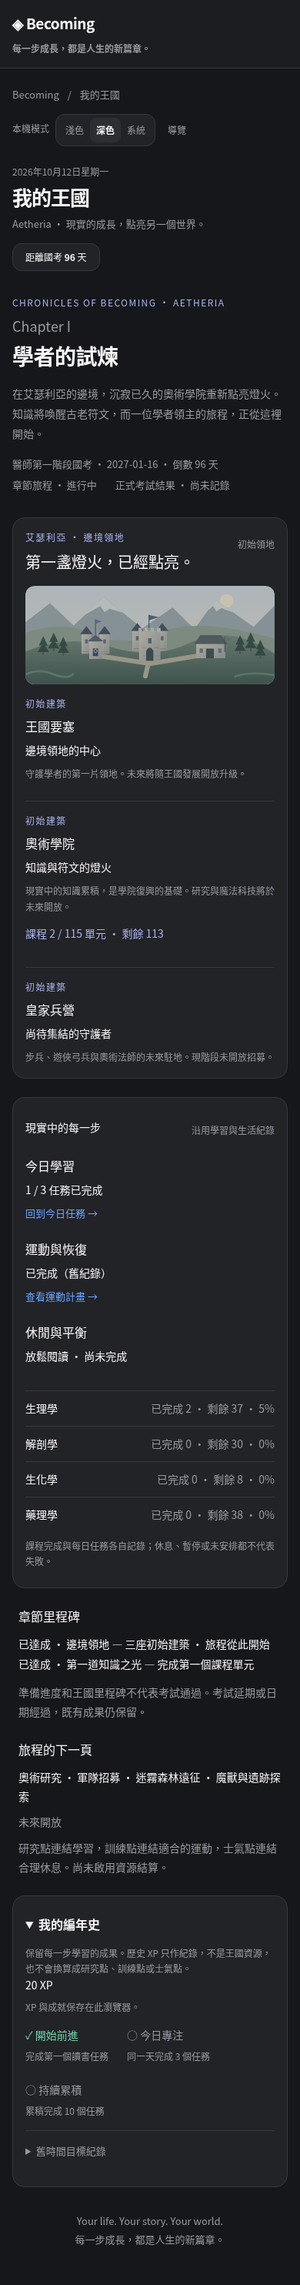
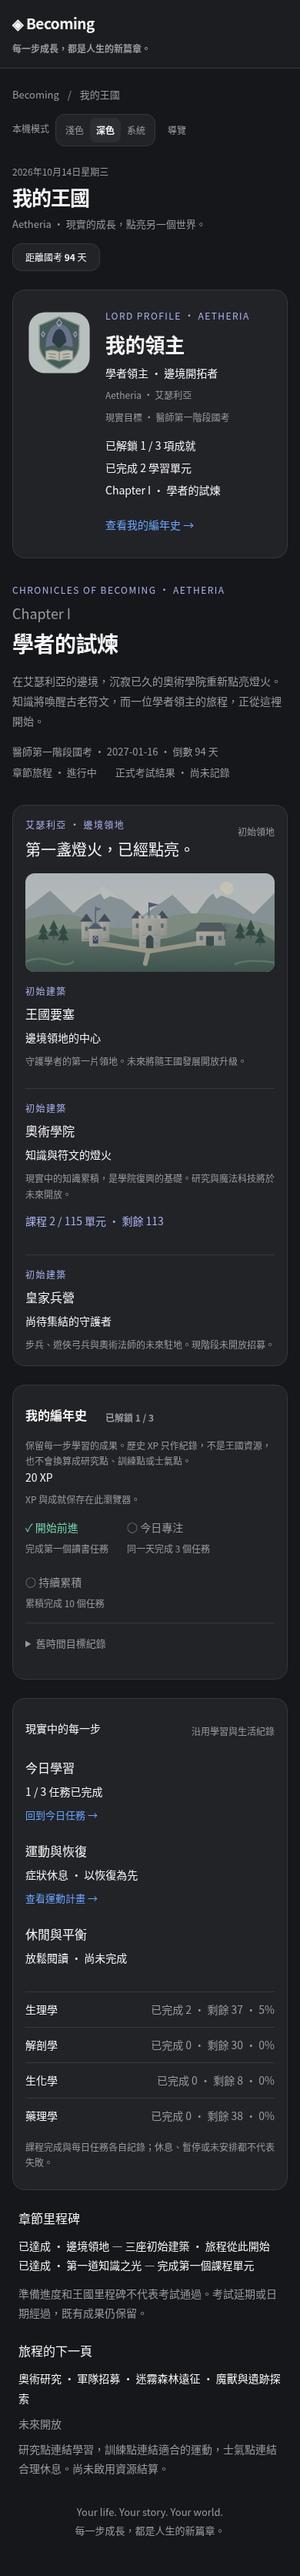
Clarify growth statistics and elevate the lord profile and chronicles

diff --git a/index.html b/index.html
@@ -152,24 +152,24 @@
     <!-- ========================================== -->
     <div id="tab-content-plan" class="space-y-6">
 
-      <!-- 📈 近 4 週衝刺完成率與作戰動量趨勢圖 (Recharts Powered) -->
+      <!-- 📈 原週計畫完成率與習慣紀錄圖 (Recharts Powered) -->
       <div id="progress-trend-card" class="bg-slate-800/90 border border-slate-700/80 rounded-2xl p-5 shadow-xl space-y-4">
         <!-- 頂部標題與控制項 -->
         <div class="flex flex-col sm:flex-row justify-between items-start sm:items-center gap-3 border-b border-slate-700/60 pb-3">
           <div>
             <div class="flex flex-wrap items-center gap-2">
               <span class="px-2.5 py-0.5 rounded-full bg-sky-500/10 text-sky-400 text-xs font-bold border border-sky-500/30 flex items-center gap-1">
-                <i data-lucide="trending-up" class="w-3.5 h-3.5"></i> 動能分析 ｜ Recharts
+                <i data-lucide="trending-up" class="w-3.5 h-3.5"></i> 原週計畫參考
               </span>
               <span id="trend-momentum-banner-badge" class="px-2 py-0.5 rounded-full bg-emerald-500/10 text-emerald-400 text-[11px] font-semibold border border-emerald-500/30 flex items-center gap-1">
-                <i data-lucide="flame" class="w-3 h-3"></i> 推進動能：真實進度即時聯動
+                <i data-lucide="flame" class="w-3 h-3"></i> 依目前勾選狀態
               </span>
             </div>
             <h2 class="text-base md:text-lg font-bold text-white mt-1.5 flex items-center gap-2">
-              近 4 週衝刺完成率與作戰動量趨勢
+              原週計畫完成率與習慣紀錄
             </h2>
             <p class="text-xs text-slate-400 mt-0.5">
-              可視化過去 4 週主科任務達成率與日常自律習慣，持續掌握向上攀升的衝刺推進動量。
+              原計畫週次的目前完成比例；不是按實際完成日期累積的歷史趨勢。
             </p>
           </div>
 
@@ -191,7 +191,7 @@
         <div class="grid grid-cols-2 lg:grid-cols-4 gap-3">
           <div class="bg-slate-900/70 border border-slate-700/60 rounded-xl p-3 space-y-1">
             <div class="text-[11px] font-medium text-slate-400 flex items-center justify-between">
-              <span>本週衝刺完成率</span>
+              <span>目前週次完成率</span>
               <span id="metric-week4-badge" class="text-[10px] text-sky-400 font-bold bg-sky-500/10 px-1.5 py-0.2 rounded border border-sky-500/20">W1 本週</span>
             </div>
             <div class="flex items-baseline gap-1.5">
@@ -203,7 +203,7 @@
 
           <div class="bg-slate-900/70 border border-slate-700/60 rounded-xl p-3 space-y-1">
             <div class="text-[11px] font-medium text-slate-400 flex items-center justify-between">
-              <span>4 週平均完成率</span>
+              <span>選取週次平均完成率</span>
               <span id="metric-avg-badge" class="text-[10px] text-sky-300 font-bold bg-sky-500/10 px-1.5 py-0.2 rounded border border-sky-500/20">4 週總合</span>
             </div>
             <div class="flex items-baseline gap-1.5">
@@ -215,19 +215,19 @@
 
           <div class="bg-slate-900/70 border border-slate-700/60 rounded-xl p-3 space-y-1">
             <div class="text-[11px] font-medium text-slate-400 flex items-center justify-between">
-              <span>衝刺動量增長</span>
+              <span>週次完成率差異</span>
               <span id="metric-momentum-badge" class="text-[10px] text-amber-400 font-bold bg-amber-500/10 px-1.5 py-0.2 rounded border border-amber-500/20">動能變化</span>
             </div>
             <div class="flex items-baseline gap-1.5">
               <span id="metric-momentum-val" class="text-xl md:text-2xl font-black font-mono text-amber-400">+0.0%</span>
-              <span class="text-[11px] text-slate-400">淨增長</span>
+              <span class="text-[11px] text-slate-400">末週減首週（百分點）</span>
             </div>
-            <div id="metric-momentum-sub" class="text-[10px] text-slate-400 truncate">跨週推進動能變化</div>
+            <div id="metric-momentum-sub" class="text-[10px] text-slate-400 truncate">不同原週次的差異，非時間增長</div>
           </div>
 
           <div class="bg-slate-900/70 border border-slate-700/60 rounded-xl p-3 space-y-1">
             <div class="text-[11px] font-medium text-slate-400 flex items-center justify-between">
-              <span>每日自律執行率</span>
+              <span>原習慣紀錄比例</span>
               <span id="metric-habit-badge" class="text-[10px] text-purple-300 font-bold bg-purple-500/10 px-1.5 py-0.2 rounded border border-purple-500/20">今日打卡</span>
             </div>
             <div class="flex items-baseline gap-1.5">
@@ -1162,7 +1162,7 @@
       {id:'subjects', title:'科目', icon:'book-open'},
       {id:'plan', title:'週計畫', icon:'calendar-check'},
       {id:'calendar', title:'行事曆', icon:'calendar-days'},
-      {id:'stats', title:'統計', icon:'chart-no-axes-combined'},
+      {id:'stats', title:'成長統計', icon:'chart-no-axes-combined'},
       {id:'kingdom', title:'我的王國', icon:'castle'},
       {id:'physiology', title:'生理學', group:'subjects'},
       {id:'anatomy', title:'解剖學', group:'subjects'},
@@ -1208,7 +1208,7 @@
         const selected=button.id==='tab-btn-'+tabName || (button.id==='calendar-overview' && tabName==='calendar'); button.classList.toggle('active',selected); button.setAttribute('aria-current',selected?'page':'false');
       }
       document.getElementById('subject-tabs').classList.toggle('hidden',group!=='subjects'); document.getElementById('calendar-tabs').classList.toggle('hidden',group!=='calendar');
-      const titles={home:['今天的任務，從這裡開始。','用自己的節奏，為國考累積每一步。'],plan:['週計畫','掌握當週目標，循序完成 16 週讀書計畫。'],calendar:['行事曆','讓課程、重要日程與休息各有位置。'],stats:['學習統計','從真實進度，看見下一步的方向。'],kingdom:['我的王國','Aetheria · 現實的成長，點亮另一個世界。'],physiology:['First Choice 生理學','7 大篇章 · 39 小節'],anatomy:['趙俊彥解剖學','15 節課 · 30 講'],biochem:['鐸鐸生化學','8 堂課 · 循序完成與複習'],pharmacology:['子翔藥理學','19 單元 · 38 講'],schedule:['作息與習慣','留出學習、生活與休息的時間。'],exercise:['運動計畫','照顧身體，也照顧讀書的節奏。'],focus:['專注計時','一次只專注眼前這件事。']};
+      const titles={home:['今天的任務，從這裡開始。','用自己的節奏，為國考累積每一步。'],plan:['週計畫','掌握當週目標，循序完成 16 週讀書計畫。'],calendar:['行事曆','讓課程、重要日程與休息各有位置。'],stats:['成長統計','從目前完成狀態與真實紀錄，看見下一步。'],kingdom:['我的王國','Aetheria · 現實的成長，點亮另一個世界。'],physiology:['First Choice 生理學','7 大篇章 · 39 小節'],anatomy:['趙俊彥解剖學','15 節課 · 30 講'],biochem:['鐸鐸生化學','8 堂課 · 循序完成與複習'],pharmacology:['子翔藥理學','19 單元 · 38 講'],schedule:['作息與習慣','留出學習、生活與休息的時間。'],exercise:['運動計畫','照顧身體，也照顧讀書的節奏。'],focus:['專注計時','一次只專注眼前這件事。']};
       const [title,description]=titles[tabName] || titles.home; document.getElementById('page-title').textContent=title; document.getElementById('page-description').textContent=description; document.getElementById('workspace-crumb').textContent=meta.group ? defaultTabs.find(t=>t.id===meta.group).title+' / '+meta.title : meta.title;
       document.getElementById('workspace-nav').classList.remove('mobile-open'); document.getElementById('mobile-menu').setAttribute('aria-expanded','false');
       window.dispatchEvent(new CustomEvent('workspace-page-change',{detail:{tab:tabName,group}}));
@@ -3010,7 +3010,7 @@
     });
 
     // ==========================================
-    // 📈 Recharts 近 4 週衝刺完成率與作戰動量趨勢圖
+    // 📈 Recharts 原週計畫完成率與習慣紀錄圖
     // ==========================================
     let trendChartMode = 'sprint'; // 'sprint' | 'rolling'
     let rechartsReactRoot = null;
@@ -3394,17 +3394,17 @@
           elWeek4Sub.innerText = `達到每週進度參考（75%）`;
           elWeek4Sub.className = 'text-[10px] text-emerald-400 truncate font-semibold';
         } else if (currentItem.completion > 0) {
-          elWeek4Sub.innerText = `穩步推進中 (${currentItem.completion}%) ⚡`;
+          elWeek4Sub.innerText = `目前週次課程勾選 (${currentItem.completion}%)`;
           elWeek4Sub.className = 'text-[10px] text-sky-400 truncate';
         } else {
-          elWeek4Sub.innerText = `本週任務進行中，依各科勾選自動計算`;
+          elWeek4Sub.innerText = `原週次課程／週勾選紀錄，非本週完成任務數`;
           elWeek4Sub.className = 'text-[10px] text-slate-400 truncate';
         }
       }
 
       if (elAvgVal) elAvgVal.innerText = avgRate + '%';
       if (elAvgBadge) {
-        elAvgBadge.innerText = Number(avgRate) >= 75 ? '達標優良' : (Number(avgRate) > 0 ? '穩步推進' : '待啟動');
+        elAvgBadge.innerText = '原週次平均';
         elAvgBadge.className = Number(avgRate) >= 75 
           ? 'text-[10px] text-emerald-400 font-bold bg-emerald-500/10 px-1.5 py-0.2 rounded border border-emerald-500/20'
           : 'text-[10px] text-sky-300 font-bold bg-sky-500/10 px-1.5 py-0.2 rounded border border-sky-500/20';
@@ -3412,7 +3412,7 @@
 
       if (elMomentumVal) elMomentumVal.innerText = (Number(momentumDelta) >= 0 ? `+${momentumDelta}%` : `${momentumDelta}%`);
       if (elMomentumBadge) {
-        elMomentumBadge.innerText = Number(momentumDelta) > 0 ? '🔥 增長中' : (Number(momentumDelta) === 0 ? '穩定維持' : '蓄勢衝刺');
+        elMomentumBadge.innerText = Number(momentumDelta) > 0 ? '末週較高' : (Number(momentumDelta) === 0 ? '週次相同' : '首週較高');
       }
 
       // Calculate today's real habit percentage
@@ -3423,11 +3423,12 @@
 
       if (elHabitVal) elHabitVal.innerText = displayHabitVal.toFixed(1) + '%';
       if (elHabitBadge) {
-        elHabitBadge.innerText = displayHabitVal >= 80 ? '自律巔峰' : (displayHabitVal > 0 ? '持續打卡' : '今日待打卡');
+        elHabitBadge.innerText = todayHabitsCount > 0 ? '今日紀錄' : '原週次紀錄';
       }
 
+      if(elHabitSub)elHabitSub.textContent=todayHabitsCount>0?'今日原習慣打卡比例':'目前原週次的習慣紀錄比例，非今日狀態';
       if (elBannerBadge) {
-        elBannerBadge.innerHTML = `<i data-lucide="flame" class="w-3 h-3"></i> 推進動能：${Number(momentumDelta) > 0 ? '正向突破中 (+' + momentumDelta + '%)' : (Number(avgRate) >= 75 ? '穩定達標高水準' : '真實進度即時聯動')}`;
+        elBannerBadge.textContent = '依目前勾選狀態';
         window.lucide?.createIcons();
       }
 

diff --git a/tests/browser/kingdom.spec.js b/tests/browser/kingdom.spec.js
@@ -17,12 +17,12 @@ test('kingdom reads cloud updates and offline legacy records without writing new
  await page.route('**/owner-config.js',r=>r.fulfill({contentType:'application/javascript',body:"export const OWNER_UID='test-owner';"}));await page.addInitScript(()=>{
  Object.defineProperty(window,'workspaceLocalOnly',{get:()=>false,set:()=>{}});const records={physiology:{fc_p_1_a:true},habits:{'2026-10-12':{'daily-sport':false,questOS_v1:{exercise:{type:'walk',stage:1,status:'symptom_rest',actions:{},minutes:5,menuVersion:3},leisure:{title:'放鬆閱讀',status:'pending',minutes:20}}}},questOS:{v1:{adaptiveStudy:{settings:{version:1,examDate:'2027-02-01',weekMinutes:Array(7).fill(360),dateMinutes:{},bufferPercent:20,fixedOverrides:{}}}}},gamification:{v3:{planner:{tasks:{a:{title:'讀書',date:'2026-10-12',minutes:null,complete:false,deleted:false,links:[]}}}}}},listeners=[],writes=[];let online=true;const get=path=>path.split('/').reduce((v,k)=>v?.[k],records)??null;const snap=path=>({val:()=>path==='.info/connected'?online:structuredClone(get(path))});const notify=()=>listeners.forEach(l=>{if(online||l.path==='.info/connected')l.fn(snap(l.path));});
  const db={ref:(path='')=>({on(e,fn){listeners.push({path,fn});setTimeout(()=>fn(snap(path)),0);},async once(){return snap(path);},async transaction(fn){writes.push(path);const value=fn(structuredClone(get(path)));return {committed:value!==undefined,snapshot:snap(path)};},async update(){writes.push(path);}})};
- window.firebase={apps:[],initializeApp(){this.apps.push({});},auth:()=>({onAuthStateChanged:cb=>setTimeout(()=>cb({uid:'test-owner'}),0)}),database:()=>db};window.kingdomMock={records,writes,remote(){records.physiology.fc_p_1_a=false;records.gamification.v3.planner.tasks.a.complete=true;notify();},offline(){online=false;notify();}};
- });await page.goto('/');await go(page,'kingdom');await expect(page.locator('#kingdom-subjects [data-subject=physiology]')).toContainText('已完成 1');await expect(page.locator('#kingdom-exam')).toContainText('2027-02-01');await expect(page.locator('#kingdom-exercise')).toContainText('症狀休息');await expect(page.locator('#kingdom-leisure')).toContainText('放鬆閱讀 · 尚未完成');const before=await page.evaluate(()=>({records:structuredClone(window.kingdomMock.records),writes:[...window.kingdomMock.writes]}));await go(page,'home');await go(page,'kingdom');expect(await page.evaluate(()=>({records:structuredClone(window.kingdomMock.records),writes:[...window.kingdomMock.writes]}))).toEqual(before);await page.evaluate(()=>window.kingdomMock.remote());await expect(page.locator('#kingdom-subjects [data-subject=physiology]')).toContainText('已完成 0');await expect(page.locator('#kingdom-study')).toHaveText('1 / 1 任務已完成');await page.evaluate(()=>window.kingdomMock.offline());await go(page,'home');await go(page,'kingdom');await expect(page.locator('#kingdom-exercise')).toContainText('症狀休息');expect(await page.evaluate(()=>window.kingdomMock.writes)).toEqual(before.writes);expect(await page.evaluate(()=>window.kingdomMock.records.becoming)).toBeUndefined();
+ window.firebase={apps:[],initializeApp(){this.apps.push({});},auth:()=>({onAuthStateChanged:cb=>setTimeout(()=>cb({uid:'test-owner',displayName:'不可曝光真名',email:'private@example.com',photoURL:'https://private.example/avatar.jpg'}),0)}),database:()=>db};window.kingdomMock={records,writes,remote(){records.physiology.fc_p_1_a=false;records.gamification.v3.planner.tasks.a.complete=true;notify();},offline(){online=false;notify();}};
+ });await page.goto('/');await go(page,'kingdom');await expect(page.locator('#kingdom-subjects [data-subject=physiology]')).toContainText('已完成 1');await expect(page.locator('.lord-profile')).not.toContainText('不可曝光真名');await expect(page.locator('.lord-profile')).not.toContainText('private@example.com');await expect(page.locator('.lord-emblem')).toHaveAttribute('src','/public/art/lord-emblem.svg');await expect(page.locator('#kingdom-exam')).toContainText('2027-02-01');await expect(page.locator('#kingdom-exercise')).toContainText('症狀休息');await expect(page.locator('#kingdom-leisure')).toContainText('放鬆閱讀 · 尚未完成');const before=await page.evaluate(()=>({records:structuredClone(window.kingdomMock.records),writes:[...window.kingdomMock.writes]}));await go(page,'home');await go(page,'kingdom');expect(await page.evaluate(()=>({records:structuredClone(window.kingdomMock.records),writes:[...window.kingdomMock.writes]}))).toEqual(before);await page.evaluate(()=>window.kingdomMock.remote());await expect(page.locator('#kingdom-subjects [data-subject=physiology]')).toContainText('已完成 0');await expect(page.locator('#kingdom-study')).toHaveText('1 / 1 任務已完成');await page.evaluate(()=>window.kingdomMock.offline());await go(page,'home');await go(page,'kingdom');await expect(page.locator('#kingdom-exercise')).toContainText('症狀休息');expect(await page.evaluate(()=>window.kingdomMock.writes)).toEqual(before.writes);expect(await page.evaluate(()=>window.kingdomMock.records.becoming)).toBeUndefined();
 });
 
 for(const width of [390,1440])test('chronicles retain unlocked achievements and historical XP while home has no character UI at '+width+'px',async({page})=>{
- await page.setViewportSize({width,height:900});await page.addInitScript(()=>{const awards=Object.fromEntries(['fc_p_1_a','fc_p_1_b','fc_p_1_c','fc_p_1_d','fc_p_1_e','fc_p_1_f','fc_p_2_a','fc_p_2_b','fc_p_2_c','fc_p_2_d'].map(id=>['physiology__'+id,{xp:20,day:'2026-10-12'}]));localStorage.setItem('med_exam_gamification_v1',JSON.stringify({days:{'2026-10-12':{keep:'history'}},awards}));localStorage.setItem('med_exam_physio_cloud',JSON.stringify({fc_p_1_a:true}));});await page.goto('/');await page.waitForFunction(()=>typeof window.updateWorkspace==='function');await expect(page.locator('#tab-btn-progression')).toHaveCount(0);await expect(page.locator('#tab-content-home .growth-strip')).toHaveCount(0);await expect(page.locator('#growth-level')).toHaveCount(0);await expect(page.locator('.sidebar-foot')).not.toContainText('Lv.');const before=await snapshot(page);await go(page,'kingdom');await expect(page.locator('#kingdom-chronicles')).not.toHaveAttribute('open','');await page.locator('#kingdom-chronicles > summary').click();await expect(page.locator('#xp-detail')).toHaveText('200 XP');await expect(page.locator('#achievements .unlocked')).toHaveCount(3);await expect(page.locator('#achievements')).toContainText('開始前進');await expect(page.locator('#achievements')).toContainText('今日專注');await expect(page.locator('#achievements')).toContainText('持續累積');expect(await snapshot(page)).toEqual(before);expect(await page.evaluate(()=>document.documentElement.scrollWidth<=innerWidth)).toBe(true);await go(page,'stats');await expect(page.locator('#weekly-detail')).toContainText('本週首次完成 10 筆');await go(page,'home');await expect(page.locator('#overall-detail')).toHaveText('1 / 115 項目');expect(await snapshot(page)).toEqual(before);
+ await page.setViewportSize({width,height:900});await page.addInitScript(()=>{const awards=Object.fromEntries(['fc_p_1_a','fc_p_1_b','fc_p_1_c','fc_p_1_d','fc_p_1_e','fc_p_1_f','fc_p_2_a','fc_p_2_b','fc_p_2_c','fc_p_2_d'].map(id=>['physiology__'+id,{xp:20,day:'2026-10-12'}]));localStorage.setItem('med_exam_gamification_v1',JSON.stringify({days:{'2026-10-12':{keep:'history'}},awards}));localStorage.setItem('med_exam_physio_cloud',JSON.stringify({fc_p_1_a:true}));});await page.goto('/');await page.waitForFunction(()=>typeof window.updateWorkspace==='function');await expect(page.locator('#tab-btn-progression')).toHaveCount(0);await expect(page.locator('#tab-content-home .growth-strip')).toHaveCount(0);await expect(page.locator('#growth-level')).toHaveCount(0);await expect(page.locator('.sidebar-foot')).not.toContainText('Lv.');const before=await snapshot(page);await go(page,'kingdom');await expect(page.locator('#kingdom-chronicles')).not.toHaveAttribute('open','');await page.locator('#kingdom-chronicles > summary').click();await expect(page.locator('#xp-detail')).toHaveText('200 XP');await expect(page.locator('#achievements .unlocked')).toHaveCount(3);await expect(page.locator('#achievements')).toContainText('開始前進');await expect(page.locator('#achievements')).toContainText('今日專注');await expect(page.locator('#achievements')).toContainText('持續累積');expect(await snapshot(page)).toEqual(before);expect(await page.evaluate(()=>document.documentElement.scrollWidth<=innerWidth)).toBe(true);await go(page,'stats');await expect(page.locator('#weekly-detail')).toContainText('本週歷史首次完成獎勵 10 筆');await go(page,'home');await expect(page.locator('#overall-detail')).toHaveText('1 / 115 項目');expect(await snapshot(page)).toEqual(before);
 });
 for(const entry of ['saved','hash','query','call'])test('legacy progression '+entry+' opens kingdom chronicles and preserves awards',async({page})=>{
  if(entry==='saved')await page.addInitScript(()=>localStorage.setItem('med_exam_active_tab','progression'));await page.goto(entry==='hash'?'/#progression':entry==='query'?'/?tab=progression':'/');await page.waitForFunction(()=>typeof window.updateWorkspace==='function');if(entry==='call')await page.evaluate(()=>window.switchTab('progression'));await expect(page.locator('#tab-content-kingdom')).toBeVisible();await expect(page.locator('#kingdom-chronicles')).toHaveAttribute('open','');await expect(page.locator('#page-title')).toHaveText('我的王國');await expect(page.locator('#tab-content-progression')).not.toBeVisible();await expect(page.locator('#xp-detail')).toHaveText('0 XP');await go(page,'home');await page.evaluate(()=>location.hash='tab-content-progression');await expect(page.locator('#kingdom-chronicles')).toBeVisible();await expect(page.locator('#tab-content-kingdom')).toBeVisible();

diff --git a/kingdom-ui.js b/kingdom-ui.js
@@ -1,21 +1,29 @@
 import {BRAND} from './chapters.js';
 import {BUILDINGS,kingdomSnapshot} from './kingdom-core.js';
 import {lifeSummary} from './life-core.js';
-import {dateKey} from './study-core.js';
+import {dateKey,gameStats} from './study-core.js';
 const node=(tag,cls='',text)=>{const el=document.createElement(tag);el.className=cls;if(text!==undefined)el.textContent=text;return el;};
-export function createKingdomUI({data,states,planner,settings,life,today=()=>dateKey()}) {
+export function createKingdomUI({data,states,planner,settings,life,awards=()=>({}),today=()=>dateKey()}) {
   const page=document.getElementById('tab-content-kingdom');page.classList.add('kingdom-page');
-  page.innerHTML=`<section class="kingdom-intro"><p class="kingdom-eyebrow">${BRAND.concept} · Aetheria</p><h2>Chapter I <span>學者的試煉</span></h2><p id="kingdom-story"></p><div class="kingdom-chapter-meta"><span id="kingdom-exam"></span><span>章節旅程 · 進行中</span><span>正式考試結果 · 尚未記錄</span></div></section>
+  page.innerHTML=`<section class="workspace-panel lord-profile" aria-labelledby="lord-name"><img class="lord-emblem" src="/public/art/lord-emblem.svg" alt="原創匿名學者領主徽章：兜帽、書本與符文" width="128" height="128"><div class="lord-identity"><p class="kingdom-eyebrow">Lord Profile · Aetheria</p><h2 id="lord-name">我的領主</h2><p>學者領主 · 邊境開拓者</p><p class="workspace-note">Aetheria · 艾瑟利亞</p><p id="lord-goal" class="workspace-note"></p><div class="lord-summary"><span id="lord-achievements-count"></span><span id="lord-study-count"></span><span id="lord-chapter"></span></div><a id="lord-open-chronicles" href="#kingdom-chronicles">查看我的編年史 →</a></div></section><section class="kingdom-intro"><p class="kingdom-eyebrow">${BRAND.concept} · Aetheria</p><h2>Chapter I <span>學者的試煉</span></h2><p id="kingdom-story"></p><div class="kingdom-chapter-meta"><span id="kingdom-exam"></span><span>章節旅程 · 進行中</span><span>正式考試結果 · 尚未記錄</span></div></section>
   <section class="kingdom-territory" aria-labelledby="kingdom-domain-title"><div class="panel-heading"><div><p class="kingdom-eyebrow">艾瑟利亞 · 邊境領地</p><h3 id="kingdom-domain-title">第一盞燈火，已經點亮。</h3></div><span class="workspace-note">初始領地</span></div><img class="kingdom-map" src="/public/art/aetheria.svg" alt="艾瑟利亞邊境：森林與山脈間的奧術學院、王國要塞與皇家兵營" width="960" height="380"><div id="kingdom-buildings" class="kingdom-buildings"></div></section>
   <section class="workspace-panel kingdom-reality" aria-labelledby="kingdom-reality-title"><div class="panel-heading"><h3 id="kingdom-reality-title">現實中的每一步</h3><span class="workspace-note">沿用學習與生活紀錄</span></div><div class="kingdom-life"><div><h4>今日學習</h4><p id="kingdom-study"></p><a href="#" data-kingdom-go="home">回到今日任務 →</a></div><div><h4>運動與恢復</h4><p id="kingdom-exercise"></p><a href="#" data-kingdom-go="exercise">查看運動計畫 →</a></div><div><h4>休閒與平衡</h4><p id="kingdom-leisure"></p></div></div><div id="kingdom-subjects"></div><p class="workspace-note">課程完成與每日任務各自記錄；休息、暫停或未安排都不代表失敗。</p></section>
-  <section class="kingdom-outlook"><div><h3>章節里程碑</h3><ul id="kingdom-milestones"></ul><p class="workspace-note">準備進度和王國里程碑不代表考試通過。考試延期或日期經過，既有成果仍保留。</p></div><div><h3>旅程的下一頁</h3><p>奧術研究 · 軍隊招募 · 迷霧森林遠征 · 魔獸與遺跡探索</p><p class="workspace-note">未來開放</p><p class="workspace-note">研究點連結學習，訓練點連結適合的運動，士氣點連結合理休息。尚未啟用資源結算。</p></div></section><details id="kingdom-chronicles" class="workspace-panel kingdom-chronicles"><summary>我的編年史</summary><p class="workspace-note">保留每一步學習的成果。歷史 XP 只作紀錄，不是王國資源，也不會換算成研究點、訓練點或士氣點。</p><p id="xp-detail"></p><p id="game-sync-status" class="workspace-note" role="status"></p><div id="achievements" class="achievement-list"></div><details class="planner-history"><summary>舊時間目標紀錄</summary><div id="legacy-time-history"></div></details></details><p class="kingdom-footer">${BRAND.slogan}<br>${BRAND.meaning}</p>`;
+  <section class="kingdom-outlook"><div><h3>章節里程碑</h3><ul id="kingdom-milestones"></ul><p class="workspace-note">準備進度和王國里程碑不代表考試通過。考試延期或日期經過，既有成果仍保留。</p></div><div><h3>旅程的下一頁</h3><p>奧術研究 · 軍隊招募 · 迷霧森林遠征 · 魔獸與遺跡探索</p><p class="workspace-note">未來開放</p><p class="workspace-note">研究點連結學習，訓練點連結適合的運動，士氣點連結合理休息。尚未啟用資源結算。</p></div></section><details id="kingdom-chronicles" class="workspace-panel kingdom-chronicles"><summary>我的編年史 <span id="chronicle-achievement-count" class="workspace-note"></span></summary><p class="workspace-note">保留每一步學習的成果。歷史 XP 只作紀錄，不是王國資源，也不會換算成研究點、訓練點或士氣點。</p><p id="xp-detail"></p><p id="game-sync-status" class="workspace-note" role="status"></p><div id="achievements" class="achievement-list"></div><details class="planner-history"><summary>舊時間目標紀錄</summary><div id="legacy-time-history"></div></details></details><p class="kingdom-footer">${BRAND.slogan}<br>${BRAND.meaning}</p>`;
+  page.querySelector('.kingdom-territory').after(page.querySelector('#kingdom-chronicles'));
   const buildings=page.querySelector('#kingdom-buildings');for(const building of BUILDINGS){const card=node('article','kingdom-building');card.dataset.building=building.id;card.append(node('p','kingdom-eyebrow','初始建築'),node('h4','',building.title),node('p','',building.role),node('small','workspace-note',building.detail));buildings.append(card);}
   page.querySelectorAll('[data-kingdom-go]').forEach(link=>link.onclick=event=>{event.preventDefault();window.switchTab(link.dataset.kingdomGo);});
   function openChronicles(){const chronicles=page.querySelector('#kingdom-chronicles');chronicles.open=true;chronicles.scrollIntoView({block:'start'});chronicles.querySelector('summary').focus({preventScroll:true});window.openChroniclesRequested=false;}
+  page.querySelector('#lord-open-chronicles').onclick=event=>{event.preventDefault();openChronicles();};
   window.openKingdomChronicles=openChronicles;
   if(window.openChroniclesRequested)openChronicles();
   function render(){
     const day=today(),training=life.training(),snapshot=kingdomSnapshot({data,states:states(),settings:settings.config(),day,goals:lifeSummary(planner,day,training,life.habits(day)),training}),chapter=snapshot.chapter;
+    const achievements=gameStats(awards(),day).achievements,unlocked=achievements.filter(a=>a.unlocked).length;
+    page.querySelector('#lord-achievements-count').textContent=`已解鎖 ${unlocked} / ${achievements.length} 項成就`;
+    page.querySelector('#chronicle-achievement-count').textContent=`已解鎖 ${unlocked} / ${achievements.length}`;
+    page.querySelector('#lord-study-count').textContent=`已完成 ${snapshot.courses.done} 學習單元`;
+    page.querySelector('#lord-chapter').textContent=chapter.label+' · '+chapter.title;
+    page.querySelector('#lord-goal').textContent='現實目標 · '+chapter.goal;
     page.querySelector('#kingdom-story').textContent=chapter.story;
     page.querySelector('#kingdom-exam').textContent=chapter.goal+' · '+chapter.examDate+' · '+(chapter.examTiming==='elapsed'?'考試日期已過，結果待確認':chapter.examTiming==='today'?'今天是考試日':`倒數 ${chapter.daysRemaining} 天`);
     page.querySelector('#kingdom-study').textContent=snapshot.study.label;

diff --git a/tests/browser/growth.spec.js b/tests/browser/growth.spec.js
@@ -1,0 +1,13 @@
+import {test,expect} from '@playwright/test';
+async function go(page,tab){await page.waitForFunction(()=>typeof window.updateWorkspace==='function');if(!await page.locator('#tab-btn-'+tab).isVisible())await page.locator('#mobile-menu').click();await page.locator('#tab-btn-'+tab).click();}
+test.beforeEach(async({page})=>{await page.route('**/*',r=>new URL(r.request().url()).hostname==='127.0.0.1'?r.continue():r.abort());await page.clock.install({time:new Date('2026-10-14T04:00:00Z')});});
+async function seed(page){await page.addInitScript(()=>{if(localStorage.getItem('med_exam_daily_planner_v3_local'))return;localStorage.setItem('med_exam_daily_planner_v3_local',JSON.stringify({tasks:{a:{title:'已完成單元',date:'2026-10-12',minutes:null,complete:true,deleted:false,award:{xp:20,day:'2026-10-12'}},cancel:{title:'取消完成',date:'2026-10-12',complete:false,deleted:false,award:{xp:20,day:'2026-10-12'}},removed:{title:'已移除',date:'2026-10-12',complete:true,deleted:true,award:{xp:20,day:'2026-10-12'}}},pending:{}}));localStorage.setItem('med_exam_physio_cloud',JSON.stringify({fc_p_1_a:true}));localStorage.setItem('med_exam_habits_2026-10-12',JSON.stringify({'daily-sport':true}));localStorage.setItem('med_exam_habits_2026-10-13',JSON.stringify({questOS_v1:{exercise:{type:'rest',status:'not_scheduled'}}}));localStorage.setItem('med_exam_habits_2026-10-14',JSON.stringify({questOS_v1:{exercise:{type:'walk',status:'symptom_rest'}}}));});}
+test('growth separates current scheduled task completion from reward history and dated recovery',async({page})=>{
+ await seed(page);await page.goto('/');await go(page,'stats');await expect(page.locator('#page-title')).toHaveText('成長統計');await expect(page.locator('#growth-week-tasks')).toHaveText('本週已完成 1 / 2 項任務');await expect(page.locator('#growth-week')).toContainText('依任務安排日期');await expect(page.locator('#growth-subjects [data-subject=videos]')).toContainText('依影片時長');await expect(page.locator('#growth-course-total')).toContainText('1 / 115');await expect(page.locator('#weekly-detail')).toContainText('獎勵 3 筆');await expect(page.locator('#growth-exercise')).toContainText('運動完成 1 天');await expect(page.locator('#growth-exercise')).toContainText('主動休息 1 天');await expect(page.locator('#growth-exercise')).toContainText('症狀休息 1 天');await expect(page.locator('#progress-trend-card')).toContainText('不是過去各週的完成快照');await go(page,'home');await page.locator('#planner-date').fill('2026-10-12');await page.locator('[data-task-id=a] input[type=checkbox]').uncheck();await go(page,'stats');await expect(page.locator('#growth-week-tasks')).toHaveText('本週已完成 0 / 2 項任務');await expect(page.locator('#weekly-detail')).toContainText('獎勵 3 筆');
+});
+for(const width of [390,1440])test('lord identity and accessible chronicles entry work without exposing personal account data at '+width+'px',async({page})=>{
+ await page.setViewportSize({width,height:900});await seed(page);await page.goto('/');await go(page,'kingdom');await expect(page.locator('#lord-name')).toHaveText('我的領主');await expect(page.locator('.lord-emblem')).toBeVisible();expect(await page.locator('.lord-emblem').evaluate(e=>e.complete&&e.naturalWidth>0)).toBe(true);await expect(page.locator('#lord-achievements-count')).toHaveText('已解鎖 2 / 3 項成就');await expect(page.locator('#lord-study-count')).toHaveText('已完成 1 學習單元');await expect(page.locator('#lord-chapter')).toHaveText('Chapter I · 學者的試煉');const before=await page.evaluate(()=>localStorage.getItem('med_exam_daily_planner_v3_local'));const entry=page.locator('#lord-open-chronicles');await entry.focus();await entry.press('Enter');await expect(page.locator('#kingdom-chronicles')).toHaveAttribute('open','');await expect(page.locator('#kingdom-chronicles > summary')).toBeFocused();await expect(page.locator('#achievements .unlocked')).toHaveCount(2);await expect(page.locator('#xp-detail')).toHaveText('60 XP');const top=await page.locator('#kingdom-chronicles').evaluate(e=>e.getBoundingClientRect().top);expect(top).toBeGreaterThanOrEqual(-1);expect(top).toBeLessThan(200);expect(await page.evaluate(()=>localStorage.getItem('med_exam_daily_planner_v3_local'))).toBe(before);expect(await page.evaluate(()=>document.documentElement.scrollWidth<=innerWidth)).toBe(true);const order=await page.locator('#tab-content-kingdom > *').evaluateAll(es=>es.map(e=>e.id||e.className));expect(order.findIndex(v=>v.includes('lord-profile'))).toBe(0);expect(order.indexOf('kingdom-chronicles')).toBeLessThan(order.findIndex(v=>v.includes('kingdom-reality')));await go(page,'stats');expect(await page.evaluate(()=>document.documentElement.scrollWidth<=innerWidth)).toBe(true);
+});
+test('growth empty states and historical pause limitations are explicit',async({page})=>{
+ await page.goto('/');await go(page,'stats');await expect(page.locator('#growth-week-dates')).toContainText('尚無有效安排');await expect(page.locator('#growth-exercise-records')).toContainText('尚無運動日紀錄');await expect(page.locator('#growth-training-paused')).toContainText('沒有歷史暫停時間');await expect(page.locator('#growth-award-total')).toContainText('累積 0 筆');
+});

diff --git a/growth-ui.js b/growth-ui.js
@@ -1,0 +1,24 @@
+import {growthSnapshot} from './growth-core.js';
+import {dateKey} from './study-core.js';
+const node=(tag,cls='',text)=>{const e=document.createElement(tag);e.className=cls;if(text!==undefined)e.textContent=text;return e;};
+export function createGrowthUI({data,states,planner,life,awards,today=()=>dateKey()}) {
+ const page=document.getElementById('tab-content-stats'),trend=document.getElementById('progress-trend-card');
+ const summary=node('section','workspace-panel');summary.id='growth-week';summary.innerHTML='<h3>本週學習摘要</h3><p id="growth-week-tasks" class="growth-main-number"></p><p id="growth-week-dates" class="workspace-note"></p><p class="workspace-note">依任務安排日期統計目前完成狀態，排除移除及待安排任務。尚無每次完成時間戳，不代表實際完成日或讀書時數；取消完成後即不列入。</p>';
+ const courses=node('section','workspace-panel');courses.innerHTML='<h3>四科課程進度</h3><p id="growth-course-total"></p><div id="growth-subjects"></div><p class="workspace-note">整體按 115 個單元數計算；各科沿用原定義：生理、生化按單元數，解剖、藥理按影片時長加權。影片時長不是實際讀書時間。</p>';
+ page.prepend(summary,courses);
+ const trendNote=node('p','workspace-note','此圖按原 16 週的課程歸屬，呈現目前完成率與原習慣紀錄；不是過去各週的完成快照或真實讀書速度。週間差異不能視為時間上的增長。');trend.prepend(trendNote);
+ const exercise=node('section','workspace-panel');exercise.innerHTML='<h3>運動與恢復</h3><p id="growth-exercise"></p><p id="growth-exercise-records" class="workspace-note"></p><p id="growth-training-paused" class="workspace-note"></p>';
+ const history=node('details','workspace-panel growth-history');history.innerHTML='<summary>歷史首次完成獎勵</summary><p id="weekly-detail"></p><p id="growth-award-total"></p><p class="workspace-note">獎勵事件包含課程、Planner 與舊時間目標；取消、改期、移除或復原不新增獎勵。它不是目前任務完成數、學習量或讀書時數，也不是王國資源。</p>';page.append(exercise,history);
+ function render(){const s=growthSnapshot({data,states:states(),tasks:planner.all(),awards:awards(),day:today(),getHabits:life.habits,training:life.training()});
+  summary.querySelector('#growth-week-tasks').textContent=`本週已完成 ${s.tasks.done} / ${s.tasks.total} 項任務`;
+  summary.querySelector('#growth-week-dates').textContent=s.start+'–'+s.end+' · 按安排日期'+(!s.tasks.total?' · 本週尚無有效安排':'');
+  courses.querySelector('#growth-course-total').textContent=`整體 ${s.courses.done} / ${s.courses.total} 單元 · ${s.courses.percent}%（按單元數）`;
+  const list=courses.querySelector('#growth-subjects');list.replaceChildren();for(const subject of s.subjects){const row=node('div','kingdom-subject');row.dataset.subject=subject.path;row.append(node('span','',subject.title),node('span','',`${subject.done} / ${subject.total} · ${subject.percent}% · ${['videos','pharmacology'].includes(subject.path)?'依影片時長':'依單元數'}`));list.append(row);}
+  const e=s.exercise;exercise.querySelector('#growth-exercise').textContent=`運動完成 ${e.complete} 天 · 低強度替代 ${e.alternative} 天 · 主動休息 ${e.rest} 天 · 症狀休息 ${e.symptomRest} 天 · 明確未安排 ${e.unplanned} 天 · 已安排尚未完成 ${e.pending} 天`;
+  exercise.querySelector('#growth-exercise-records').textContent=e.recorded?`本週截至今日有 ${e.recorded} 天紀錄${e.legacy?'（含舊打卡 '+e.legacy+' 天）':''}；另 ${e.unrecorded} 天未記錄，不回推歷史狀態。`:'本週截至今日尚無運動日紀錄，不依目前課表回填休息或未安排。';
+  exercise.querySelector('#growth-training-paused').textContent=(s.paused?'目前訓練已暫停。':'目前訓練未暫停。')+'暫停是目前設定，沒有歷史暫停時間，不能據此統計過去天數。休息不是失敗。';
+  history.querySelector('#weekly-detail').textContent=`本週歷史首次完成獎勵 ${s.historical.weekly} 筆`;
+  history.querySelector('#growth-award-total').textContent=`累積 ${s.historical.total} 筆獎勵 · ${s.historical.xp} XP（歷史紀錄）`;
+ }
+ return {render};
+}

diff --git a/tests/growth.test.js b/tests/growth.test.js
@@ -1,0 +1,27 @@
+import test from 'node:test';
+import assert from 'node:assert/strict';
+import {growthSnapshot} from '../growth-core.js';
+import {subjectStats} from '../study-core.js';
+import {createPlanner} from '../daily-planner.js';
+import {memoryStorage,mockEvents} from './helpers/planning-mock.js';
+const data={physio:[{sections:[{id:'p'}]}],anatomy:[{lectures:[{id:1,durationSec:60},{id:2,durationSec:180}]}],biochem:[{id:1}],pharm:[{lectures:[{id:1,durationSec:120}]}]};
+const input={data,states:{videos:{1:true}},tasks:[],awards:{},day:'2026-10-14',getHabits:()=>({}),training:{paused:false}};
+const task=(id,extra={})=>({id,date:'2026-10-12',complete:true,deleted:false,...extra});
+test('weekly task status counts IDs once, by schedule date, separately from historical awards',()=>{
+ const tasks=[task('a'),task('a'),task('cancel',{complete:false,award:{xp:20,day:'2026-10-12'}}),task('deleted',{deleted:true}),task('waiting',{planning:{waiting:true}}),task('other',{date:'2026-10-11'})],awards={historic:{xp:20,day:'2026-10-12'},outside:{xp:20,day:'2026-10-11'}};
+ const s=growthSnapshot({...input,tasks,awards});assert.equal(s.tasks.done,1);assert.equal(s.tasks.total,2);assert.equal(s.tasks.dateBasis,'scheduled');assert.equal(s.historical.weekly,1);assert.equal(s.historical.total,2);
+});
+test('cancel, redo, delete and restore change current status without creating historical reward events',()=>{
+ const storage=memoryStorage();let id=0;const planner=createPlanner({storage,events:mockEvents(),localOnly:true,newId:()=>String(++id),today:()=>input.day});const key=planner.add({title:'reading',date:'2026-10-13'});const read=()=>growthSnapshot({...input,tasks:planner.all(),awards:planner.awards()});planner.update(key,{complete:true});assert.equal(read().tasks.done,1);assert.equal(read().historical.total,1);planner.update(key,{complete:false});assert.equal(read().tasks.done,0);assert.equal(read().historical.total,1);planner.update(key,{complete:true});planner.remove(key);assert.equal(read().tasks.done,0);planner.update(key,{deleted:false});assert.equal(read().tasks.done,1);assert.equal(read().historical.total,1);planner.update(key,{date:'2026-10-19'});assert.equal(read().tasks.done,0);assert.equal(read().historical.weekly,1);
+});
+test('course percentages keep original subject weighting while overall counts units',()=>{
+ const s=growthSnapshot(input);assert.deepEqual(s.subjects,subjectStats(data,input.states));assert.equal(s.subjects[1].percent,25);assert.equal(s.courses.done,1);assert.equal(s.courses.total,5);assert.equal(s.courses.percent,20);
+});
+test('exercise uses only dated evidence and does not infer historical rest or pause from current settings',()=>{
+ const days={'2026-10-12':{'daily-sport':true},'2026-10-13':{questOS_v1:{exercise:{type:'walk',status:'alternative'}}},'2026-10-14':{questOS_v1:{exercise:{type:'rest',status:'not_scheduled'}}},'2026-10-15':{questOS_v1:{exercise:{type:'walk',status:'symptom_rest'}}},'2026-10-16':{questOS_v1:{exercise:{type:'none',status:'not_scheduled'}}},'2026-10-17':{questOS_v1:{exercise:{type:'walk',status:'pending'}}}};
+ const before=JSON.stringify(days),s=growthSnapshot({...input,day:'2026-10-18',getHabits:day=>days[day]||{},training:{paused:true}});assert.deepEqual(s.exercise,{complete:1,alternative:1,rest:1,symptomRest:1,unplanned:1,pending:1,unrecorded:1,legacy:1,recorded:6});assert.equal(s.paused,true);assert.equal(JSON.stringify(days),before);
+ const empty=growthSnapshot({...input,training:{paused:true}});assert.equal(empty.exercise.recorded,0);assert.equal(empty.exercise.rest,0);assert.equal(empty.exercise.unrecorded,3);
+});
+test('future exercise records are excluded and reading growth is pure',()=>{
+ const value={...input,tasks:[task('a')],awards:{a:{xp:20,day:'2026-10-12'}}},before=JSON.stringify(value);const result=growthSnapshot({...value,getHabits:day=>day==='2026-10-15'?{'daily-sport':true}:{}});assert.equal(result.exercise.complete,0);assert.equal(JSON.stringify(value),before);
+});

diff --git a/workspace.js b/workspace.js
@@ -1,3 +1,4 @@
+import {createGrowthUI} from './growth-ui.js';
 import {createKingdomUI} from './kingdom-ui.js';
 import {createStudySettings,normalizeSettings,STUDY_SETTINGS_PATH} from './adaptive-store.js';
 import {fixedClasses,interval,calendarConstraints,studyWeekDisplayTitle} from './adaptive-core.js';
@@ -103,12 +104,13 @@ content.innerHTML = `
   </div>`;
 home.prepend(content);
 const brandNote=document.createElement('p');brandNote.className='workspace-note becoming-home-brand';brandNote.textContent='Becoming · Your life. Your story. Your world.';home.append(brandNote);
-const weeklyRecords=document.createElement('section');weeklyRecords.className='workspace-panel';weeklyRecords.innerHTML='<h3>本週學習成果</h3><p id="weekly-detail"></p><p class="workspace-note">依首次完成的學習紀錄計算，取消或重新勾選不會增加次數。</p>';document.getElementById('tab-content-stats').append(weeklyRecords);
+const readAwards=()=>({...game.awards,...timeTasks.awards(),...planner.awards()});
 const plannerUI=createPlannerUI({data,planner,states});
 const lifeUI=createLifeUI({store:life,planner});
 const weekUI=createWeekPlanUI({data,openPlanner:week=>plannerUI.open(week)});
 const adaptiveUI=createAdaptiveUI({data,planner,settings:studySettings,context:studyContext,states,courseAwards:()=>game.awards,events:()=>window.readCalendarEvents()||{}});
-const kingdomUI=createKingdomUI({data,states,planner,settings:studySettings,life});
+const kingdomUI=createKingdomUI({data,states,planner,settings:studySettings,life,awards:readAwards});
+const growthUI=createGrowthUI({data,states,planner,life,awards:readAwards});
 window.renderBiochemUnits?.();window.renderCalendar?.();
 document.querySelectorAll('[data-go]').forEach(button=>button.addEventListener('click',()=>window.switchTab(button.dataset.go)));
 const appearance=document.getElementById('appearance');
@@ -161,7 +163,7 @@ function renderPlanningSummary() {
 function render() {
   const current=states();
   document.getElementById('today-label').textContent=new Intl.DateTimeFormat('zh-TW',{timeZone:'Asia/Taipei',year:'numeric',month:'long',day:'numeric',weekday:'long'}).format(new Date(day+'T12:00:00+08:00'));
-  window.refreshBiochemScheduleDisplay();plannerUI.render();weekUI.refresh();lifeUI.render();adaptiveUI.render();kingdomUI.render();
+  window.refreshBiochemScheduleDisplay();plannerUI.render();weekUI.refresh();lifeUI.render();adaptiveUI.render();kingdomUI.render();growthUI.render();
   const legacy=document.getElementById('legacy-time-history');legacy.replaceChildren();
   const historical=timeTasks.history();
   for(const date of Object.keys(historical).filter(date=>Object.keys(historical[date]).length).sort().reverse()){const row=document.createElement('p');row.className='workspace-note';row.textContent=date+' · '+Object.entries(historical[date]).map(([id,task])=>({morning:'上午',afternoon:'下午',review:'複習'}[id]||id)+': '+(task.complete?'完成':'未完成')+(task.awarded?'（已領 XP）':'')).join(' · ');legacy.append(row);}
@@ -182,9 +184,8 @@ function render() {
     summary.append(button);
   }
   renderPlanningSummary();
-  const stats=gameStats({...game.awards,...timeTasks.awards(),...planner.awards()},day);
+  const stats=gameStats(readAwards(),day);
   document.getElementById('xp-detail').textContent=`${stats.xp} XP`;
-  document.getElementById('weekly-detail').textContent=`本週首次完成 ${stats.weekly} 筆學習紀錄 · 課程、任務與舊時間目標`;
   document.getElementById('game-sync-status').textContent=(gameFailed||timeTasks.failed()||planner.status().error)?'成就雲端同步失敗，本機紀錄已保留；可使用重試同步。':db?'成就獨立同步，不影響原有學習紀錄。':'XP 與成就保存在此瀏覽器。';
   const achievements=document.getElementById('achievements'); achievements.replaceChildren();
   for(const a of stats.achievements) {

diff --git a/growth-core.js b/growth-core.js
@@ -1,0 +1,20 @@
+import {weekKey,subjectStats,gameStats} from './study-core.js';
+import {addDays} from './adaptive-core.js';
+export function growthSnapshot({data,states,tasks,awards={},day,getHabits,training}) {
+  const start=weekKey(day),end=addDays(start,6),unique=new Map(tasks.map(task=>[task.id,task]));
+  const weekly=[...unique.values()].filter(t=>!t.deleted&&!t.planning?.waiting&&t.date>=start&&t.date<=end),completed=weekly.filter(t=>t.complete);
+  const subjects=subjectStats(data,states),done=subjects.reduce((n,s)=>n+s.done,0),total=subjects.reduce((n,s)=>n+s.total,0);
+  const exercise={complete:0,alternative:0,rest:0,symptomRest:0,unplanned:0,pending:0,unrecorded:0,legacy:0,recorded:0};
+  for(let i=0;i<7;i++){const date=addDays(start,i);if(date>day)break;const habits=getHabits(date),record=habits.questOS_v1?.exercise;
+    if(!record){if(habits['daily-sport']){exercise.complete++;exercise.legacy++;exercise.recorded++;}else exercise.unrecorded++;continue;}
+    exercise.recorded++;
+    if(record.status==='symptom_rest')exercise.symptomRest++;
+    else if(record.status==='alternative')exercise.alternative++;
+    else if(record.status==='complete')exercise.complete++;
+    else if(record.type==='rest')exercise.rest++;
+    else if(record.status==='not_scheduled'||record.type==='none')exercise.unplanned++;
+    else exercise.pending++;
+  }
+  const historical=gameStats(awards,day);
+  return {start,end,tasks:{done:completed.length,total:weekly.length,undatedCompletion:completed.length,dateBasis:'scheduled'},courses:{done,total,percent:total?Math.round(done/total*100):0},subjects,exercise,paused:!!training.paused,historical:{weekly:historical.weekly,total:historical.xp/20,xp:historical.xp}};
+}

diff --git a/kingdom.css b/kingdom.css
@@ -41,3 +41,14 @@
 .kingdom-chronicles > summary { font-size:16px; font-weight:600; cursor:pointer; }
 .kingdom-chronicles[open] > summary { margin-bottom:16px; }
 .kingdom-chronicles .achievement-list { margin:16px 0; }
+
+.lord-profile { display:flex; gap:24px; align-items:center; }
+.lord-emblem { flex-shrink:0; width:128px; height:128px; border-radius:24px; }
+.lord-identity { min-width:0; }
+.lord-identity h2 { font-size:26px; margin:0 0 8px; }
+.lord-identity p { margin:0 0 8px; }
+.lord-summary { display:flex; flex-wrap:wrap; gap:8px 24px; font-size:14px; margin:16px 0; }
+#lord-open-chronicles { color:var(--accent); display:inline-block; padding:8px 0; }
+.kingdom-chronicles > summary { display:flex; flex-wrap:wrap; gap:8px 24px; align-items:center; }
+:root[data-theme=dark] .lord-emblem { filter:brightness(.85); }
+@media(max-width:700px) { .lord-profile { align-items:flex-start; gap:16px; flex-wrap:wrap; } .lord-emblem { width:88px; height:88px; } .lord-summary { flex-direction:column; gap:8px; } }

diff --git a/workspace.css b/workspace.css
@@ -426,3 +426,6 @@ input[type=checkbox] { width:18px; height:18px; accent-color:var(--accent); flex
 .workspace-brand { flex-direction:column; align-items:flex-start; gap:8px; }
 .workspace-brand small { font-size:12px; white-space:normal; line-height:1.6; }
 .becoming-home-brand { margin:24px 0 0; text-align:center; }
+
+.growth-main-number { font-size:22px; margin:16px 0 8px; font-weight:600; }
+.growth-history summary { cursor:pointer; font-weight:600; }

diff --git a/public/art/README.md b/public/art/README.md
@@ -1,3 +1,5 @@
 # Becoming artwork
 
 `aetheria.svg` is original vector artwork created for this repository's Phase 2A. It depicts the academy, keep and barracks in a border territory. No third-party game artwork, external image URL, font, WebGL or animation is used. The SVG is served locally with the application and scales using its viewBox; the app provides alternative text and a dark appearance treatment in kingdom.css.
+
+`lord-emblem.svg` is an original anonymous hood, book and rune emblem for the Lord Profile. It does not depict a particular gender, real person or Google account; it uses no external avatar service.
